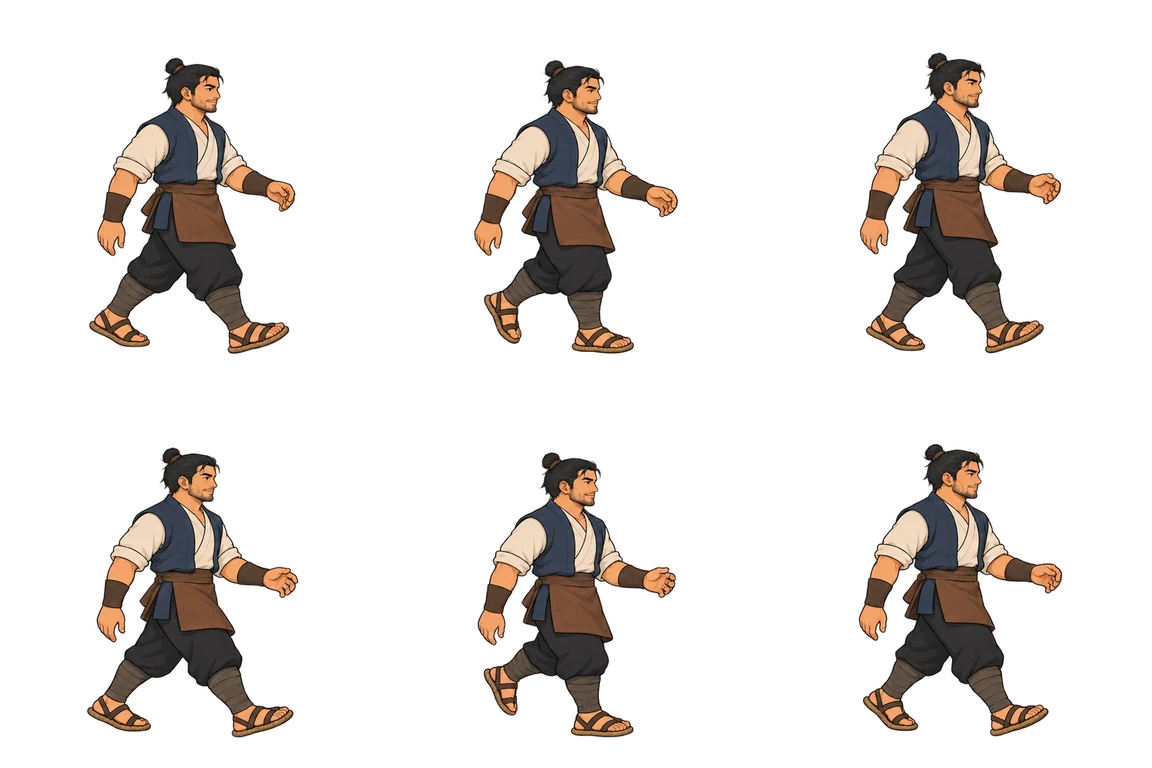
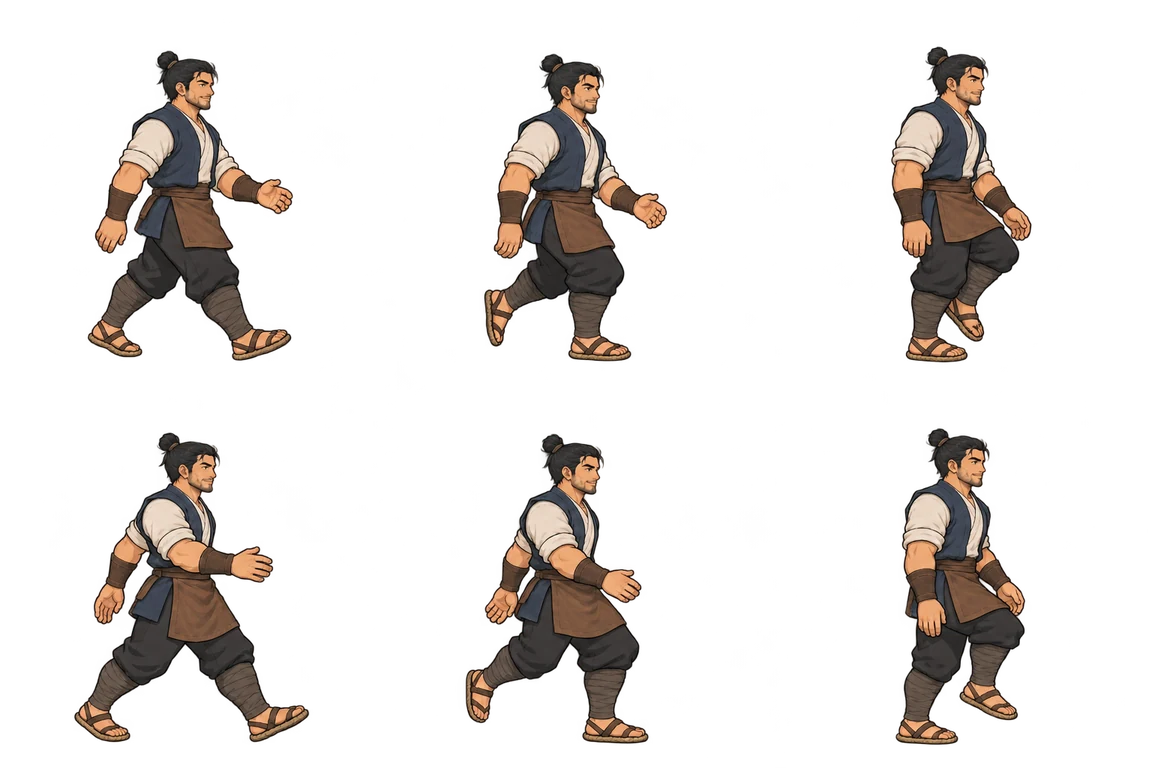
Import Mountain's v2 walk: a full two-step cycle with swapping limbs
HERO-MTN-WALK_v2 replaces the half-cycle sheet; drawn ~5% larger than
idle, so it gets a 0.95 draw scale.

Claude-Session: https://claude.ai/code/session_0139SQ3kwzAxvua5LhRqdRac

diff --git a/tools/art/import_art.py b/tools/art/import_art.py
@@ -41,6 +41,8 @@ WEBP_QUALITY = 88
 APPROVED = {
     "HERO-RIV-STAFF-B": "HERO-RIV-STAFF-B_v2.png",
     "ENM-LOOKOUT-REACT": "ENM-LOOKOUT-REACT_v2.png",
+    # Full two-step walk cycles (v1 repeated half a cycle, so the limbs never swapped).
+    "HERO-MTN-WALK": "HERO-MTN-WALK_v2.png",
 }
 
 HEROES = {
@@ -234,6 +236,7 @@ SHEET_SCALE = {
     "mountain-grab-throw": 0.92,
     "mountain-dash": 0.92,
     "mountain-team-attack": 0.95,
+    "mountain-walk": 0.95,
     "river-walk": 0.88,
     "river-handwheel": 0.95,
 }

diff --git a/Guo_tests.md b/Guo_tests.md
@@ -1009,3 +1009,4 @@ If Vite prints another port than 5173, use that one. Stop the server with `Ctrl+
 5. **Unarmed walk:** drop the weapon and walk: the walk sheet plays as before (the arms and legs still don't swap until the redrawn walk sheets arrive).
 6. **Other poses:** without a weapon, guard (**G**), dash (**D D**), grab the dummy (**J**) and get hit: Mountain keeps one size in every pose.
 7. **River:** press **Num 4** so Player 2 (River) joins. Walk River with the arrow keys: River is the same size walking and standing (before, the walk was visibly larger). River picks up the staff and the handwheel with **Num 3**: same size.
+8. **Mountain's new walk (v2 sheet):** without a weapon, walk Mountain left and right. His arms and legs now swap every step (left arm forward with the right leg, then the other way round), and he is the same size walking and standing. The other three heroes still use the old walk until their v2 sheets arrive.
